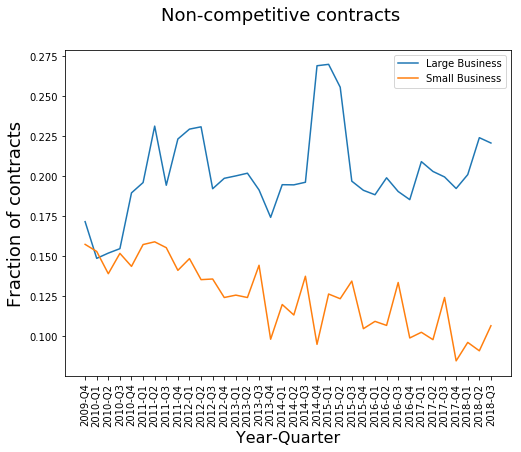
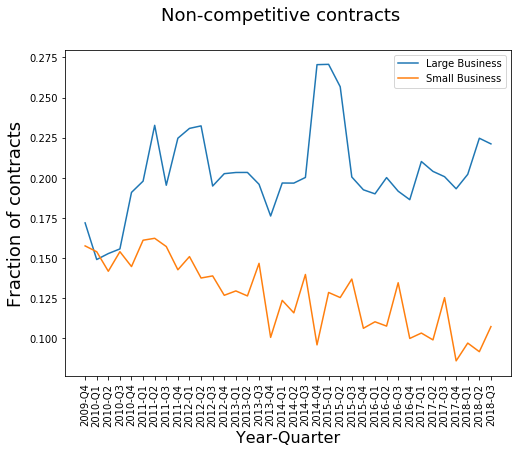
edits

diff --git a/codes/summary_stats.py b/codes/summary_stats.py
@@ -30,7 +30,7 @@ pba=pba.rename(columns={'contract_award_unique_key':'Number of performance based
 fin=sb[sb.contract_financing_code.isin(['C','A','D','E','F'])].groupby(['action_date_year_quarter'])['contract_award_unique_key'].nunique().reset_index()
 fin=fin.rename(columns={'contract_award_unique_key':'Number of contracts receiving financing'})
 
-non_competitive=sb[sb.extent_competed_code.isin(['G','B','C'])].groupby(['action_date_year_quarter'])['contract_award_unique_key'].nunique().reset_index()
+non_competitive=sb[(sb.extent_competed_code.isnull())|(sb.extent_competed_code.isin(['G','B','C']))].groupby(['action_date_year_quarter'])['contract_award_unique_key'].nunique().reset_index()
 non_competitive=non_competitive.rename(columns={'contract_award_unique_key':'Number of non-competed contracts'})
 
 dfs = [df.set_index(['action_date_year_quarter']) for df in [sb_summary_1, pba, fin,non_competitive]]
@@ -54,7 +54,7 @@ pba_lb=pba_lb.rename(columns={'contract_award_unique_key':'Number of performance
 fin_lb=lb[lb.contract_financing_code.isin(['C','A','D','E','F'])].groupby(['action_date_year_quarter'])['contract_award_unique_key'].nunique().reset_index()
 fin_lb=fin_lb.rename(columns={'contract_award_unique_key':'Number of contracts receiving financing'})
 
-non_competitive_lb=lb[lb.extent_competed_code.isin(['G','B','C'])].groupby(['action_date_year_quarter'])['contract_award_unique_key'].nunique().reset_index()
+non_competitive_lb=lb[(lb.extent_competed_code.isnull())|(lb.extent_competed_code.isin(['G','B','C']))].groupby(['action_date_year_quarter'])['contract_award_unique_key'].nunique().reset_index()
 non_competitive_lb=non_competitive_lb.rename(columns={'contract_award_unique_key':'Number of non-competed contracts'})
 
 dfs = [df.set_index(['action_date_year_quarter']) for df in [lb_summary_1, pba_lb, fin_lb,non_competitive_lb]]
@@ -64,33 +64,6 @@ lb_summary=pd.concat(dfs, axis=1).reset_index()
 
 # 'wt' -- overwrite existing material, 'a' -- append to existing material                
 print(lb_summary.to_markdown(), file=open('/Users/vibhutidhingra/Desktop/lb_summary_stats.md','wt'))  
-
-
-#%% Number of null values (convert to string to show in groupby)
-
-cols=['performance_based_service_acquisition','performance_based_service_acquisition_code',\
-      'extent_competed','extent_competed_code',\
-      'contract_financing','contract_financing_code']
-df[cols]=df[cols].astype(str)
-
-## pba
-pba_notnull=df.groupby(['performance_based_service_acquisition',\
-                        'performance_based_service_acquisition_code'])['contract_award_unique_key'].nunique().reset_index()
-pba_notnull=pba_notnull.rename(columns={'contract_award_unique_key':'Number of contracts'})
-
-## extent competed
-noncompete_notnull=df.groupby(['extent_competed','extent_competed_code'])['contract_award_unique_key'].nunique().reset_index()
-noncompete_notnull=noncompete_notnull.rename(columns={'contract_award_unique_key':'Number of contracts'})
-
-## contract financing
-fin_notnull=df.groupby(['contract_financing','contract_financing_code'])['contract_award_unique_key'].nunique().reset_index()
-fin_notnull=fin_notnull.rename(columns={'contract_award_unique_key':'Number of contracts'})
-
-## to markdown
-
-print(pba_notnull.to_markdown(), file=open('/Users/vibhutidhingra/Desktop/pba_notnull.md','wt'))  
-print(noncompete_notnull.to_markdown(), file=open('/Users/vibhutidhingra/Desktop/noncompete_notnull.md','wt'))  
-print(fin_notnull.to_markdown(), file=open('/Users/vibhutidhingra/Desktop/fin_notnull.md','wt'))  
 
 #%% Plot the total number of firms over time
 folder_path='/Users/vibhutidhingra/Desktop/research/Git:Github/qp_data_and_code/img/summary_stats'
@@ -159,3 +132,29 @@ plt.legend(loc="best")
 plt.ylabel('Fraction of contracts', fontsize=18)
 plt.xlabel('Year-Quarter', fontsize=16)
 plt.savefig(folder_path+'/summary_non_compete.png',bbox_inches='tight')
+
+#%% Number of null values (convert to string to show in groupby)
+
+cols=['performance_based_service_acquisition','performance_based_service_acquisition_code',\
+      'extent_competed','extent_competed_code',\
+      'contract_financing','contract_financing_code']
+df[cols]=df[cols].astype(str)
+
+## pba
+pba_notnull=df.groupby(['performance_based_service_acquisition',\
+                        'performance_based_service_acquisition_code'])['contract_award_unique_key'].nunique().reset_index()
+pba_notnull=pba_notnull.rename(columns={'contract_award_unique_key':'Number of contracts'})
+
+## extent competed
+noncompete_notnull=df.groupby(['extent_competed','extent_competed_code'])['contract_award_unique_key'].nunique().reset_index()
+noncompete_notnull=noncompete_notnull.rename(columns={'contract_award_unique_key':'Number of contracts'})
+
+## contract financing
+fin_notnull=df.groupby(['contract_financing','contract_financing_code'])['contract_award_unique_key'].nunique().reset_index()
+fin_notnull=fin_notnull.rename(columns={'contract_award_unique_key':'Number of contracts'})
+
+## to markdown
+
+print(pba_notnull.to_markdown(), file=open('/Users/vibhutidhingra/Desktop/pba_notnull.md','wt'))  
+print(noncompete_notnull.to_markdown(), file=open('/Users/vibhutidhingra/Desktop/noncompete_notnull.md','wt'))  
+print(fin_notnull.to_markdown(), file=open('/Users/vibhutidhingra/Desktop/fin_notnull.md','wt'))  
